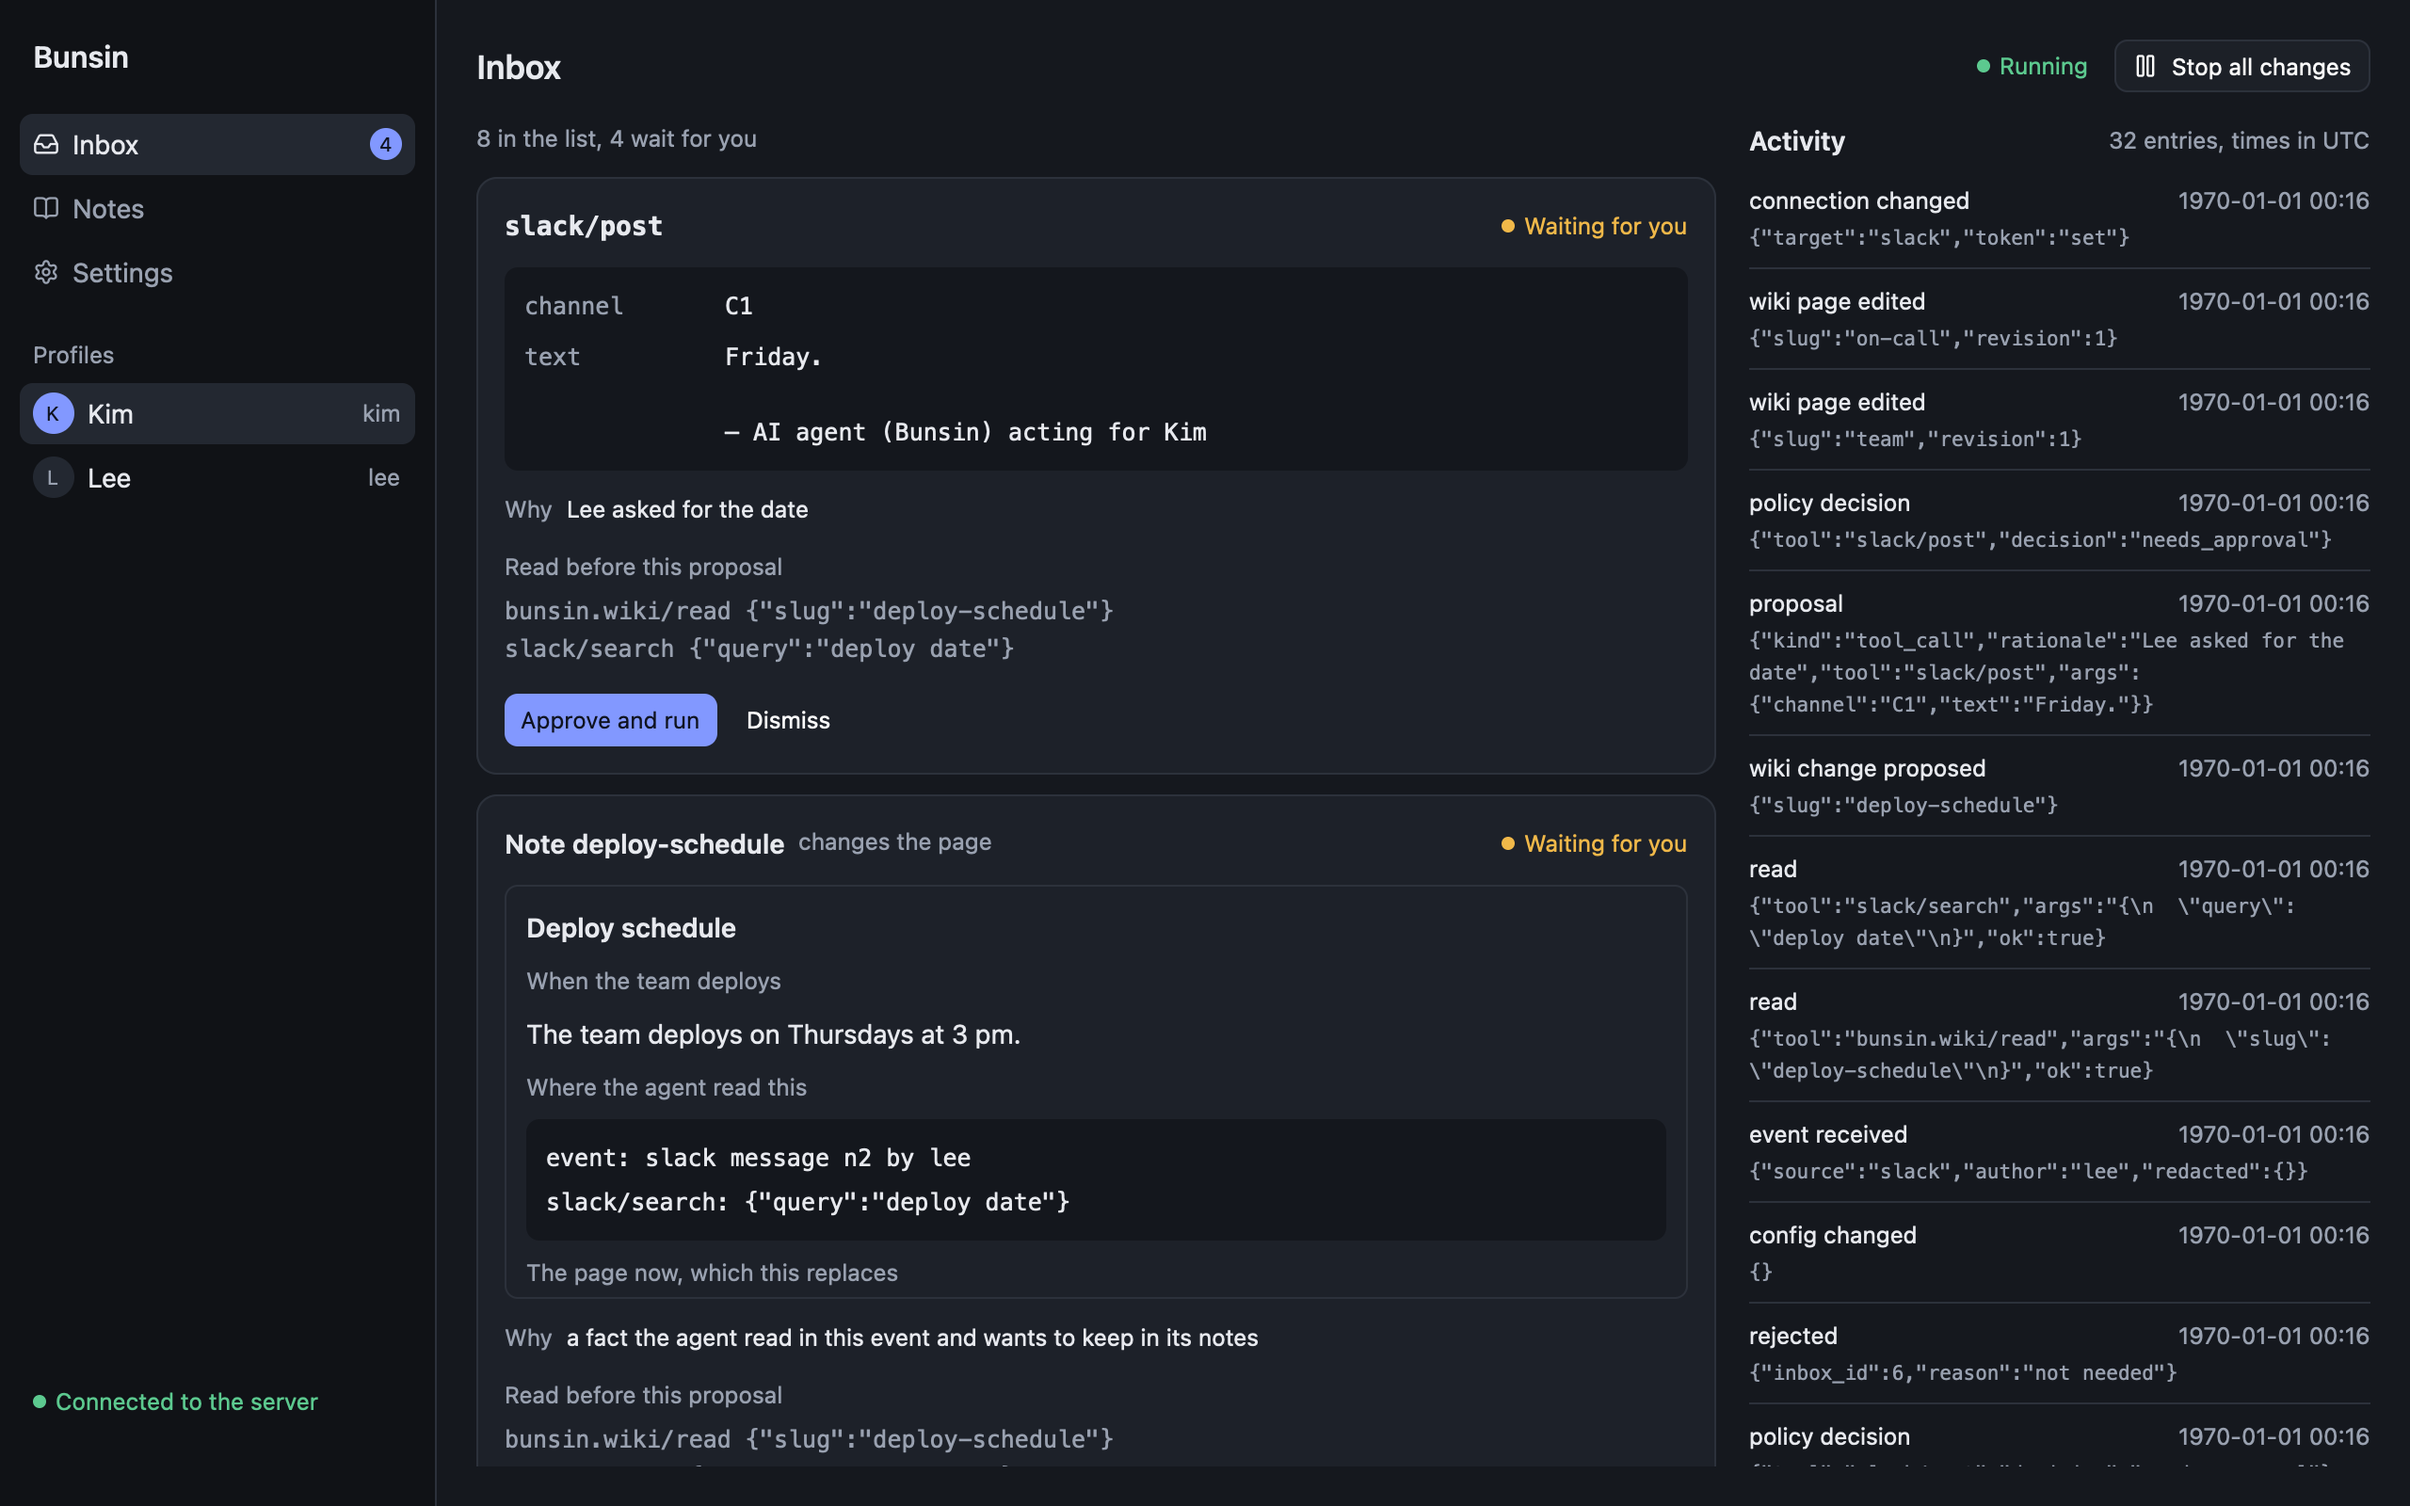
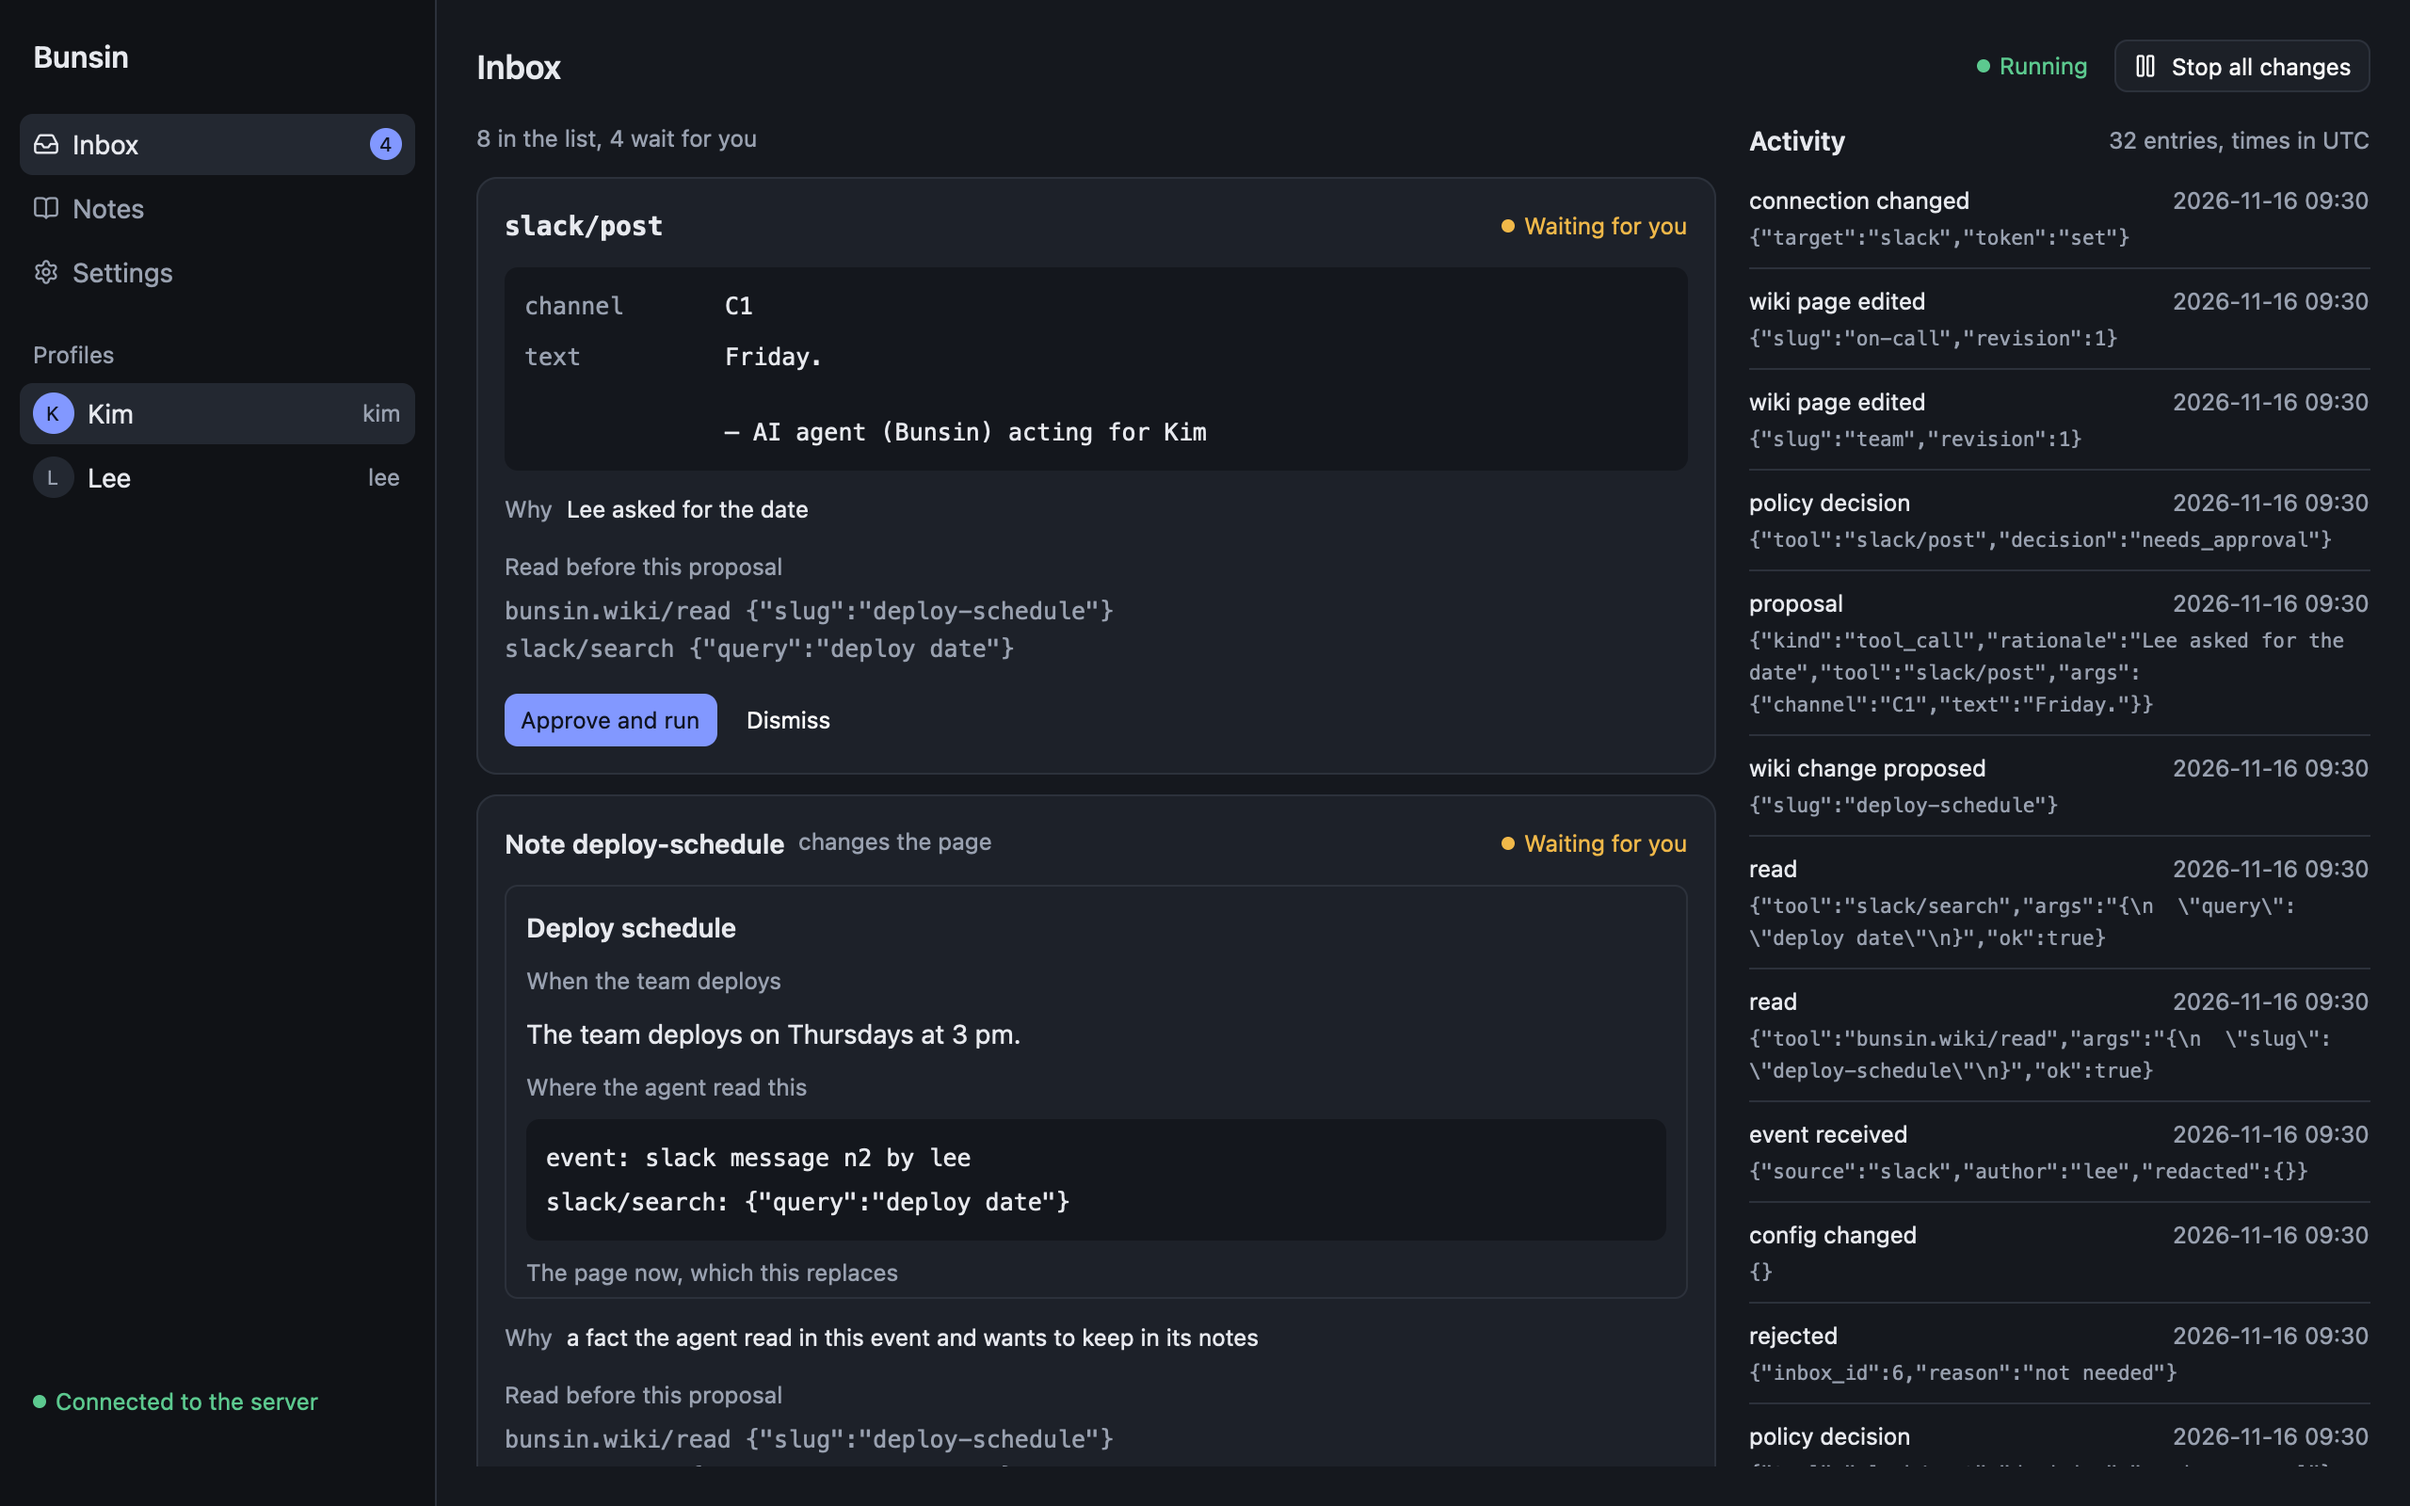
Show long argument names and values in full, and test the connected window
- An argument row wraps: a long name pushes its value to the next line.
- The screens program draws a value without a break point, a nested value, and the
  states for a stopped agent, an empty profile and a lost connection.
- Test: the connected window fills a laptop screen and Disconnect does not cover the
  state of the connection.
- An escalation reads as needing the owner's own answer.

diff --git a/crates/app/src/shell.rs b/crates/app/src/shell.rs
@@ -236,7 +236,11 @@ fn argument_text(value: &serde_json::Value) -> String {
 impl Shell {
     /// What an item is, as its first line.
     fn item_head(item: &InboxItem, cx: &App) -> impl IntoElement {
-        let (word, color) = state_view(item.state, cx);
+        let (word, color) = match (&item.body, item.state) {
+            // An escalation is a draft that only the owner can answer, outside this window.
+            (InboxBody::Escalation { .. }, ApprovalState::Draft) => ("Needs your own answer", palette(cx).waiting),
+            (_, state) => state_view(state, cx),
+        };
         let mono = cx.theme().mono_font_family.clone();
         let what = match &item.body {
             InboxBody::ToolCall { tool, .. } => div().font_family(mono).child(SharedString::from(tool.clone())),
@@ -277,10 +281,11 @@ impl Shell {
                 .children(args.iter().map(|(name, value)| {
                     div()
                         .flex()
-                        .gap_3()
+                        .flex_wrap()
+                        .gap_x_3()
                         .child(
                             div()
-                                .w(px(96.))
+                                .min_w(px(96.))
                                 .flex_none()
                                 .text_color(cx.theme().muted_foreground)
                                 .child(SharedString::from(name.clone())),
@@ -288,7 +293,7 @@ impl Shell {
                         .child(
                             div()
                                 .flex_1()
-                                .min_w(px(0.))
+                                .min_w(px(280.))
                                 .child(SharedString::from(argument_text(value))),
                         )
                 }))
@@ -555,7 +560,15 @@ impl Shell {
             )
             .child(div().flex_1())
             // The connect screen puts its Disconnect button into the room below.
-            .child(div().px_2().pb_10().child(connection))
+            .child(div().px_2().pb_10().child(labelled_as(
+                "connection",
+                if self.state.connected {
+                    "connected"
+                } else {
+                    "not connected"
+                },
+                connection,
+            )))
     }
 
     /// The line above every view: its name, the state of the agent and the kill switch.
@@ -665,12 +678,15 @@ impl Render for Shell {
                             "inbox-count",
                             format!("Approval inbox: {}", items.len()),
                             quiet(
-                                match (items.len(), waiting) {
-                                    (0, _) => {
+                                match (snapshot.is_some(), items.len(), waiting) {
+                                    // Without an answer of the server, the list says nothing about the inbox.
+                                    (false, ..) => String::new(),
+                                    (true, 0, _) => {
                                         "Nothing is here yet. What the agent proposes appears in this list.".to_owned()
                                     }
-                                    (all, 0) => format!("{all} in the list, none waits for you"),
-                                    (all, waiting) => format!("{all} in the list, {waiting} wait for you"),
+                                    (true, all, 0) => format!("{all} in the list, none waits for you"),
+                                    (true, all, 1) => format!("{all} in the list, 1 waits for you"),
+                                    (true, all, waiting) => format!("{all} in the list, {waiting} wait for you"),
                                 },
                                 cx,
                             ),
@@ -703,7 +719,13 @@ impl Render for Shell {
                                 .items_center()
                                 .justify_between()
                                 .child(div().font_weight(FontWeight::SEMIBOLD).child("Activity"))
-                                .child(quiet(format!("{} entries, times in UTC", audit.len()), cx)),
+                                .child(quiet(
+                                    match audit.len() {
+                                        1 => "1 entry, time in UTC".to_owned(),
+                                        count => format!("{count} entries, times in UTC"),
+                                    },
+                                    cx,
+                                )),
                         ))
                         .child(
                             div()

diff --git a/crates/app/tests/connect.rs b/crates/app/tests/connect.rs
@@ -90,6 +90,15 @@ impl Test {
     }
 
     fn open(&self, cx: &mut TestAppContext, source: Source) -> (AnyWindowHandle, Entity<AppView>) {
+        self.open_sized(cx, source, (900., 700.))
+    }
+
+    fn open_sized(
+        &self,
+        cx: &mut TestAppContext,
+        source: Source,
+        (width, height): (f32, f32),
+    ) -> (AnyWindowHandle, Entity<AppView>) {
         // The server wakes the view from tokio threads. Tell the test scheduler.
         cx.executor().allow_parking();
         cx.update(gpui_kit::init);
@@ -97,7 +106,7 @@ impl Test {
         cx.update(|cx| {
             let bounds = Bounds {
                 origin: Point::default(),
-                size: size(px(900.), px(700.)),
+                size: size(px(width), px(height)),
             };
             let options = WindowOptions {
                 window_bounds: Some(WindowBounds::Windowed(bounds)),
@@ -436,4 +445,40 @@ fn an_empty_token_field_uses_the_stored_token(cx: &mut TestAppContext) {
     assert_eq!(load_connection(t.dir.path()).unwrap().server, url);
     assert_eq!(t.tokens.get().unwrap(), Some(t.server.token.clone()));
     assert_not_on_screen(cx, window, &t.server.token, "Kim (kim)");
+}
+
+#[gpui_kit::test]
+fn the_connected_window_fills_a_laptop_screen_and_its_controls_do_not_overlap(cx: &mut TestAppContext) {
+    let t = Test::new();
+    t.save_good_connection();
+    let (window, view) = t.open_sized(cx, t.saved(), (1280., 800.));
+    wait_until(cx, &view, "the shell with a snapshot", shell_loaded);
+    cx.update_window(window, |_, window, cx| {
+        window.render_frame(cx);
+        // The main window starts at the top and reaches the bottom of the window.
+        let top = window.find("tab-inbox").bounds();
+        assert!(top.origin.y < px(120.), "{top:?}");
+        let mark = window.find("connection").bounds();
+        let disconnect = window.find("disconnect").bounds();
+        assert!(
+            disconnect.bottom() <= px(800.) && disconnect.bottom() > px(760.),
+            "{disconnect:?}"
+        );
+        // Disconnect is below the state of the connection. It does not cover it.
+        assert!(mark.bottom() <= disconnect.top(), "{mark:?} {disconnect:?}");
+        assert_eq!(window.find("connection").label(), Some("connected"));
+        // The item is in reach without a scroll.
+        window.click("approve-1", cx);
+    })
+    .unwrap();
+    wait_until(cx, &view, "the executed item", |view, cx| {
+        view.shell().is_some_and(|shell| {
+            let state = &shell.read(cx).state;
+            state
+                .snapshot
+                .as_ref()
+                .is_some_and(|s| s.inbox[0].state.as_str() == "executed")
+        })
+    });
+    assert_eq!(t.server.rig.slack.calls().len(), 1);
 }

diff --git a/crates/app/tests/screens.rs b/crates/app/tests/screens.rs
@@ -48,7 +48,8 @@ async fn handle(rig: &common::Rig, event_id: &str, text: &str, reply: serde_json
 
 /// A profile with items in every state the inbox shows, three pages and a connector.
 async fn fixture() -> (common::Rig, UiState) {
-    let rig = common::rig().await;
+    // 2026-11-16 09:30 UTC.
+    let rig = common::rig_at(1_794_821_400).await;
     let body = "The team deploys on Fridays at 3 pm.\nA release needs two approvals.";
     common::ingest_note(&rig, "n1", false, body).await;
     // Item 1 was run, item 2 (the note) is kept, item 3 waits.
@@ -56,7 +57,11 @@ async fn fixture() -> (common::Rig, UiState) {
     rig.engine.approve("kim", 2, None).await.unwrap();
     // A call with a long value without spaces and with Korean text: nothing of it may be cut.
     let long = format!("https://wiki.example.com/pages/{}", "release-notes-2026-".repeat(20));
-    let args = json!({"channel": "C-ALL-COMPANY", "text": format!("배포는 금요일 오후 3시입니다. 자세한 내용: {long}"), "broadcast": true});
+    // A value without any place to break a line, a long argument name and a nested value.
[1 lines of base64/hex data omitted]
+    let args = json!({"channel": "C-ALL-COMPANY", "text": format!("배포는 금요일 오후 3시입니다. 자세한 내용: {long}"),
+        "broadcast": true, "attachment_sha256_digest_of_the_file": digest,
+        "options": {"unfurl_links": false, "mentions": ["@here", "@lee"]}});
     let call = json!({"kind": "tool_call", "rationale": "Lee asked where the release notes are", "summary": null,
         "tool": "slack/post", "args_json": args.to_string()});
     handle(&rig, "s2", "where are the release notes?", call).await;

diff --git a/crates/app/tests/common/mod.rs b/crates/app/tests/common/mod.rs
@@ -62,6 +62,12 @@ pub struct Rig {
 
 /// An engine with profiles `kim` and `lee`. `kim` has one pending post with ID 1.
 pub async fn rig() -> Rig {
+    rig_at(1_000).await
+}
+
+/// Like `rig`, with a clock that always shows `now` (seconds since 1970).
+#[allow(dead_code)]
+pub async fn rig_at(now: i64) -> Rig {
     let dir = tempfile::tempdir().unwrap();
     let llm = Arc::new(FakeLlm::new());
     let tools = vec![tool("post", "Post a message")];
@@ -73,7 +79,7 @@ pub async fn rig() -> Rig {
         slack: slack.clone(),
         real,
     });
-    let engine = Arc::new(Engine::open(dir.path(), backends, Arc::new(|| 1_000)).unwrap());
+    let engine = Arc::new(Engine::open(dir.path(), backends, Arc::new(move || now)).unwrap());
 
     for owner in ["Kim", "Lee"] {
         let mut config = ProfileConfig::new(owner);
